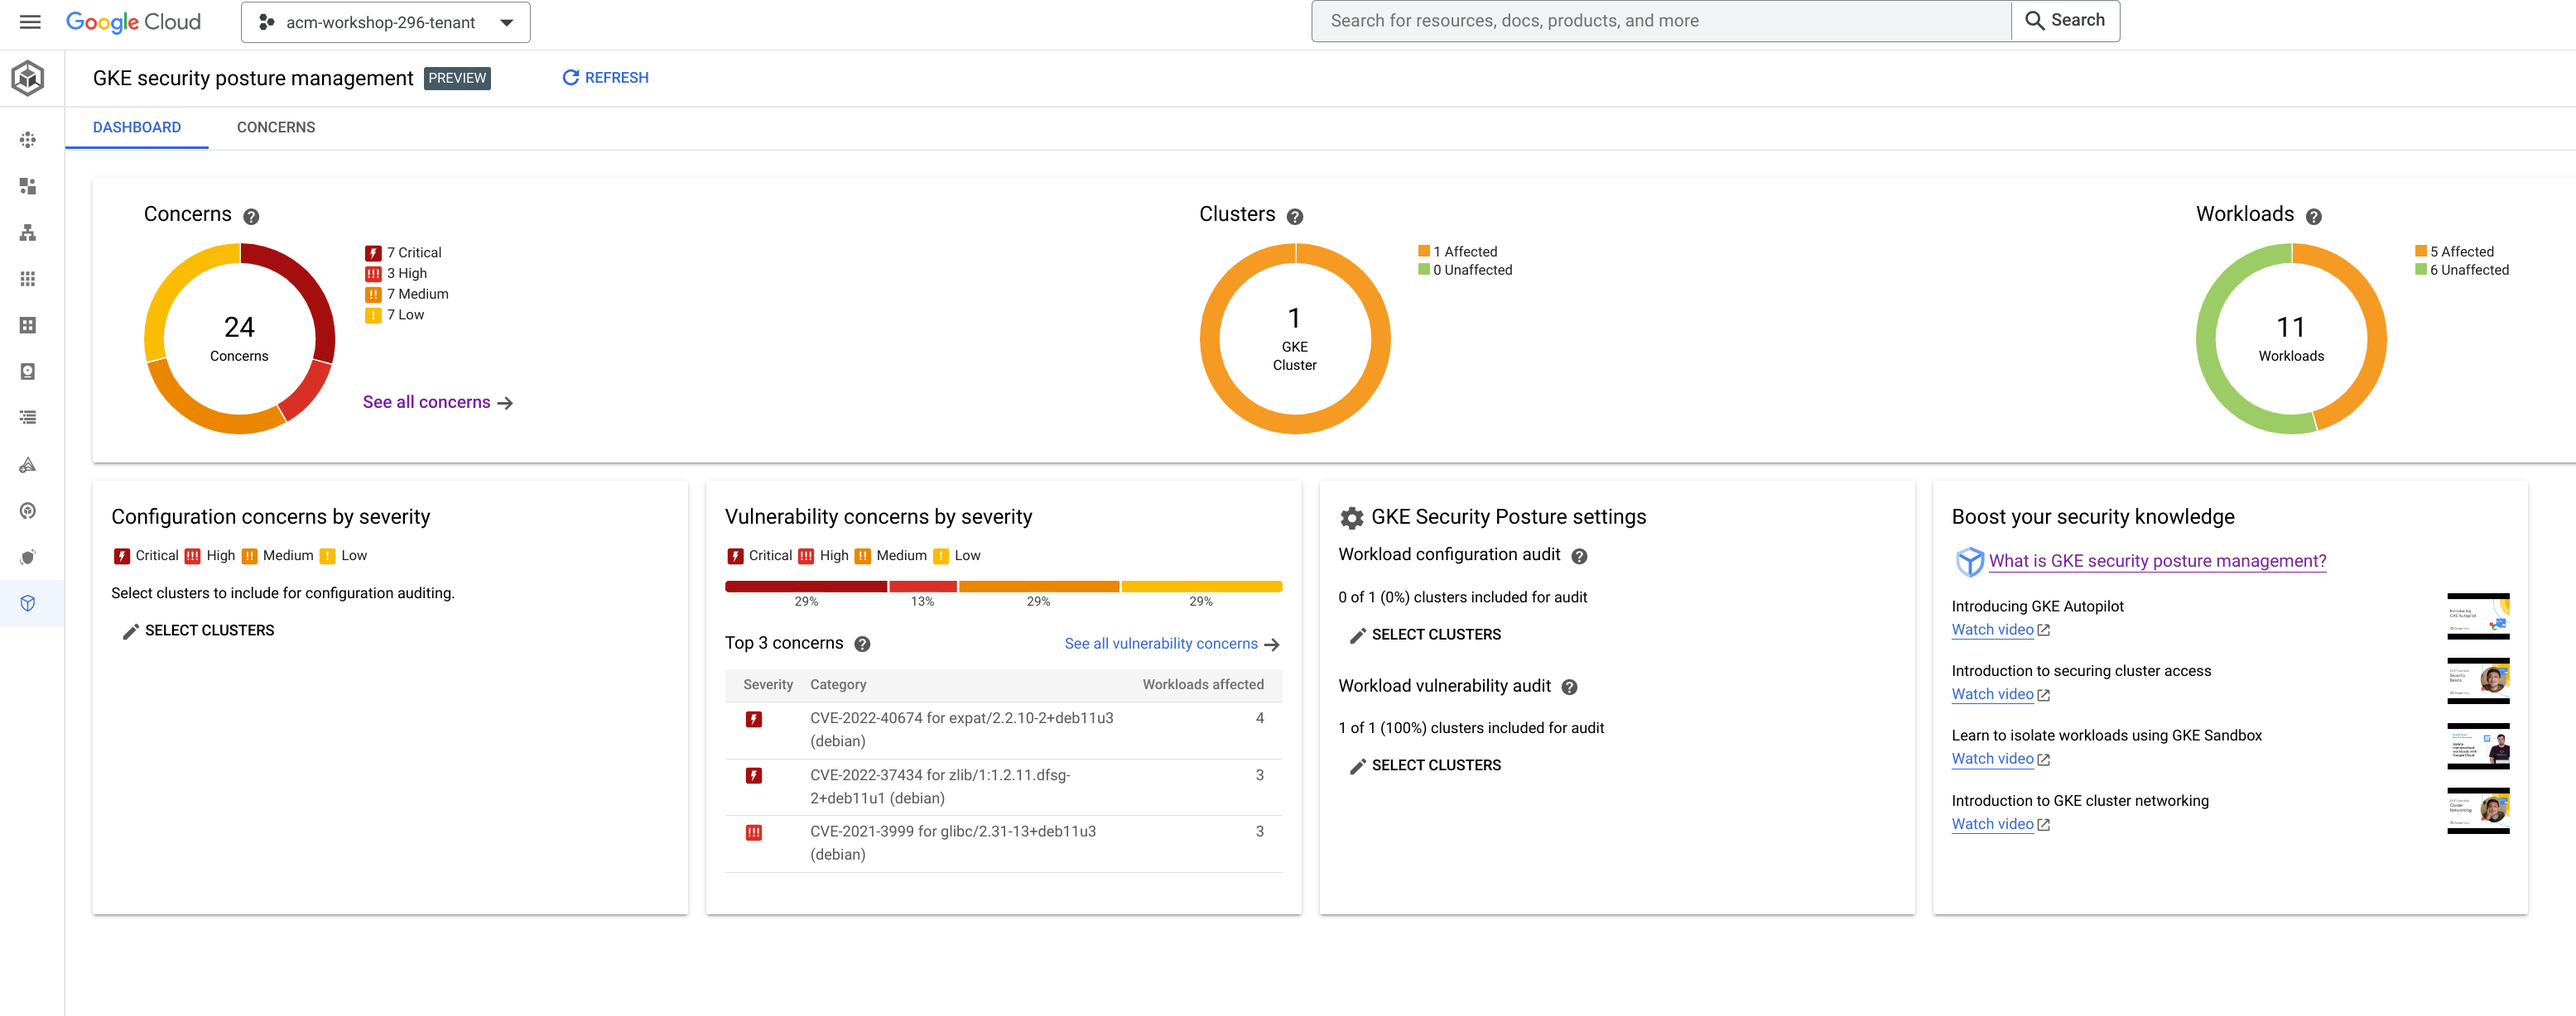
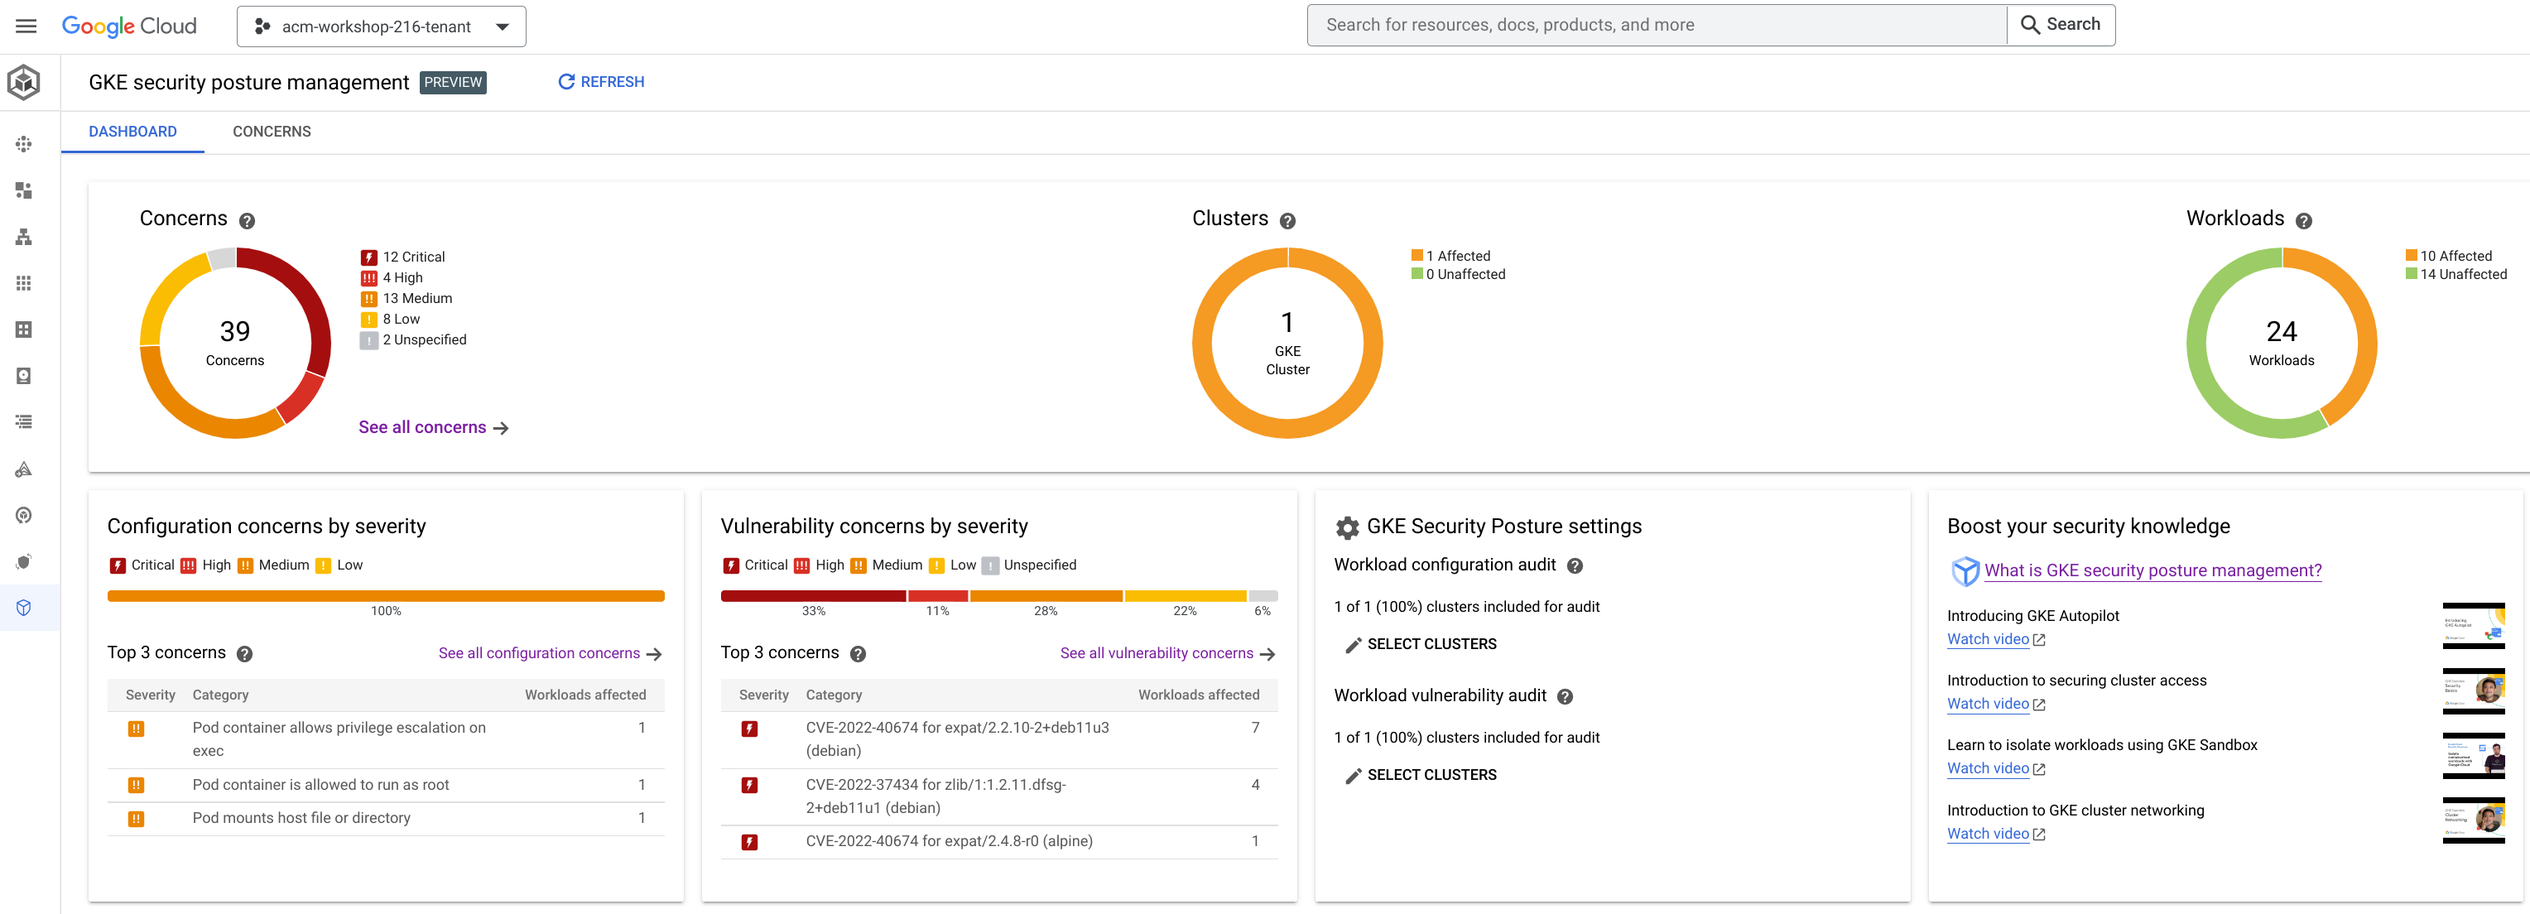
update images for asm version and gke security posture

diff --git a/content/monitoring-and-audit/scan-workloads-configurations.md b/content/monitoring-and-audit/scan-workloads-configurations.md
@@ -30,6 +30,10 @@ Then you have to wait a little bit while these features are being enabled on you
 
 > Audit in progress. It can take up to 15 minutes to complete.
 
-Eventually, when the audit is done, you will be able to see the report of the vulnerabilities found. The **Workload configuration audit** will come first, **Workload vulnerability audit** will be generated later. 
+When the audit is done, you will be able to see the report of the vulnerabilities found. The **Workload configuration audit** will come first, **Workload vulnerability audit** will be generated later. 
 
 ![GKE Security Posture report](/images/gke-security-posture-report.png)
+
+You will also be able to see in details the associated concerns:
+
+![GKE Security Posture concerns](/images/gke-security-posture-concerns.png)
